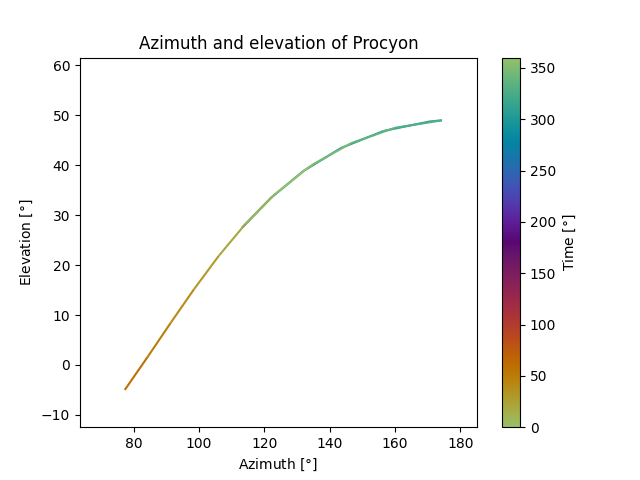
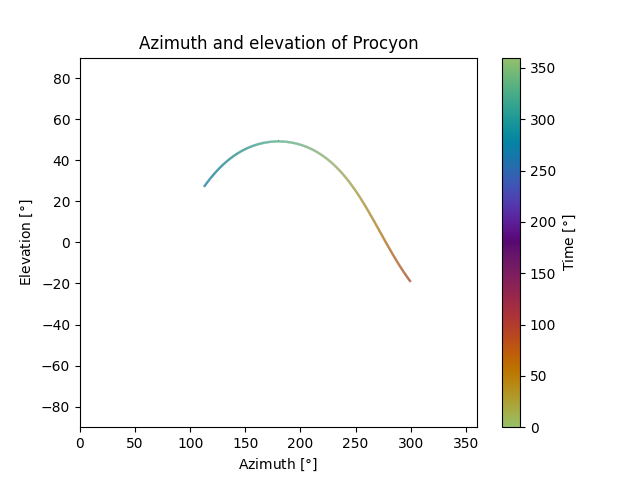
Working plots!

diff --git a/DN1/rehash_main_01.py b/DN1/rehash_main_01.py
@@ -1,4 +1,7 @@
 from rehash_src_01 import *
+import cmasher as cmr
+import matplotlib.pyplot as plt
+from matplotlib.collections import LineCollection
 
 # ---- Observatory Data ----
 obstime_deg = 282.5
@@ -6,11 +9,50 @@ AGO_lambda = 14.5277
 AGO_phi = 46.0439
 ZeroTime = 148.926757
 
+# ---- Track 2 stars ----
 RA_procyon = 114.82549791
 DEC_procyon = 05.22498756
 
 
-times = np.arange(270, 90 + 360, 20)
-for time in times:
-    az1, alt1 = eq2azalt(RA_procyon, DEC_procyon, time, ZeroTime, AGO_lambda, AGO_phi)
-    print("Procyon Az: {} Alt: {} Time: {}".format(deg2dms(az1), deg2dms(alt1), time))
+data, times = startrack(RA_procyon, DEC_procyon, 270, 90, 20000, ZeroTime, AGO_lambda, AGO_phi)
+for i in range(len(times)):
+    print("Procyon Az: {} Alt: {} Time: {}".format(deg2dms(data[0, i]), deg2dms(data[1, i]), times[i]))
+
+# ==== Plot style 1 ====
+# WARNING: POLAR PLOT TAKES X DATA IN RADIANS
+datapoints = np.array([np.deg2rad(data[0]), data[1]]).T.reshape(-1, 1, 2)
+segments = np.concatenate([datapoints[:-1], datapoints[1:]], axis=1)
+norm = plt.Normalize(0, 360)
+lc = LineCollection(segments, cmap="cmr.infinity_s", norm=norm)
+lc.set_array(times % 360)
+
+fig, ax = plt.subplots(subplot_kw={"projection": "polar"})
+line = ax.add_collection(lc)
+ax.set_rlim(bottom=90, top=0)
+ax.set_rmax(90)
+ax.set_rticks([0, 15, 30, 45, 60, 75, 90])
+ax.set_theta_zero_location("N")
+ax.set_theta_direction(-1)
+ax.grid(True)
+plt.colorbar(line, label=r"Time $[\degree]$", pad=0.075)
+# plt.title(r"Azimuth and elevation of $\beta$ UMi")
+plt.title("Azimuth and elevation of Procyon")
+plt.show()
+
+# ==== Plot style 2 ====
+# WARNING: POLAR PLOT TAKES X DATA IN RADIANS
+datapoints = np.array([data[0], data[1]]).T.reshape(-1, 1, 2)
+segments = np.concatenate([datapoints[:-1], datapoints[1:]], axis=1)
+norm = plt.Normalize(0, 360)
+lc = LineCollection(segments, cmap="cmr.infinity_s", norm=norm)
+lc.set_array(times % 360)
+
+fig, ax = plt.subplots()
+line = ax.add_collection(lc)
+plt.xlim(0, 360)
+plt.ylim(-90, 90)
+plt.colorbar(line, label=r"Time $[\degree]$")
+plt.title("Azimuth and elevation of Procyon")
+plt.xlabel(r"Azimuth $[\degree]$")
+plt.ylabel(r"Elevation $[\degree]$")
+plt.show()

diff --git a/DN1/rehash_src_01.py b/DN1/rehash_src_01.py
@@ -35,7 +35,7 @@ def deg2dms(time):
     return "{:0>2d}:{:0>2d}:{:05.2f}".format(int(tH), int(tM), (tS))
 
 
-def trackstar(alpha, delta, t_start, t_end, bins, SUT0, lamb, phi):
+def startrack(alpha, delta, t_start, t_end, bins, SUT0, lamb, phi):
     """
     Track elevation and azimuth of desired star at discrete time points
     :param alpha: Right ascension of star
@@ -49,10 +49,16 @@ def trackstar(alpha, delta, t_start, t_end, bins, SUT0, lamb, phi):
 
     :return: 2D array with Azimuth and elevation and 1D array of times
     """
-    step = np.abs(t_start - t_end)/bins
-    times = np.arange(t_start, t_end + 360, step)
+    step = np.abs(t_start + t_end)/bins
+    if t_start > t_end:
+        times = np.arange(t_start, t_end + 360, step)
+    elif t_start < t_end:
+        times = np.arange(t_start, t_end, step)
+    else:
+        raise ValueError("Something's fucky..")
+
     output = []
     for time in times:
         output.append(eq2azalt(alpha, delta, time, SUT0, lamb, phi))
 
-    return np.column_stack(np.array(output))
+    return np.column_stack(np.array(output)), times
